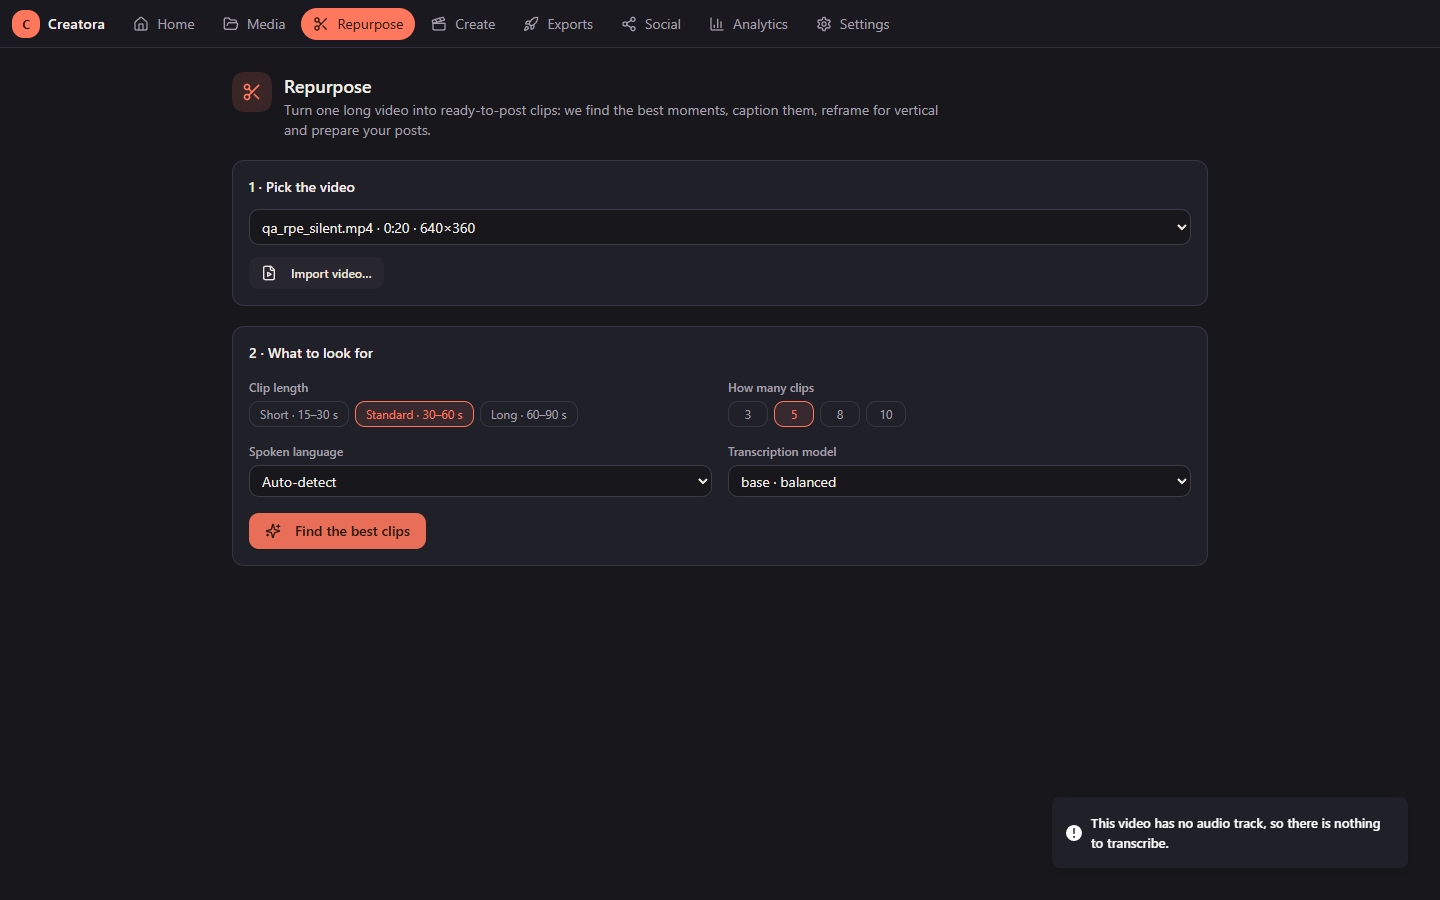
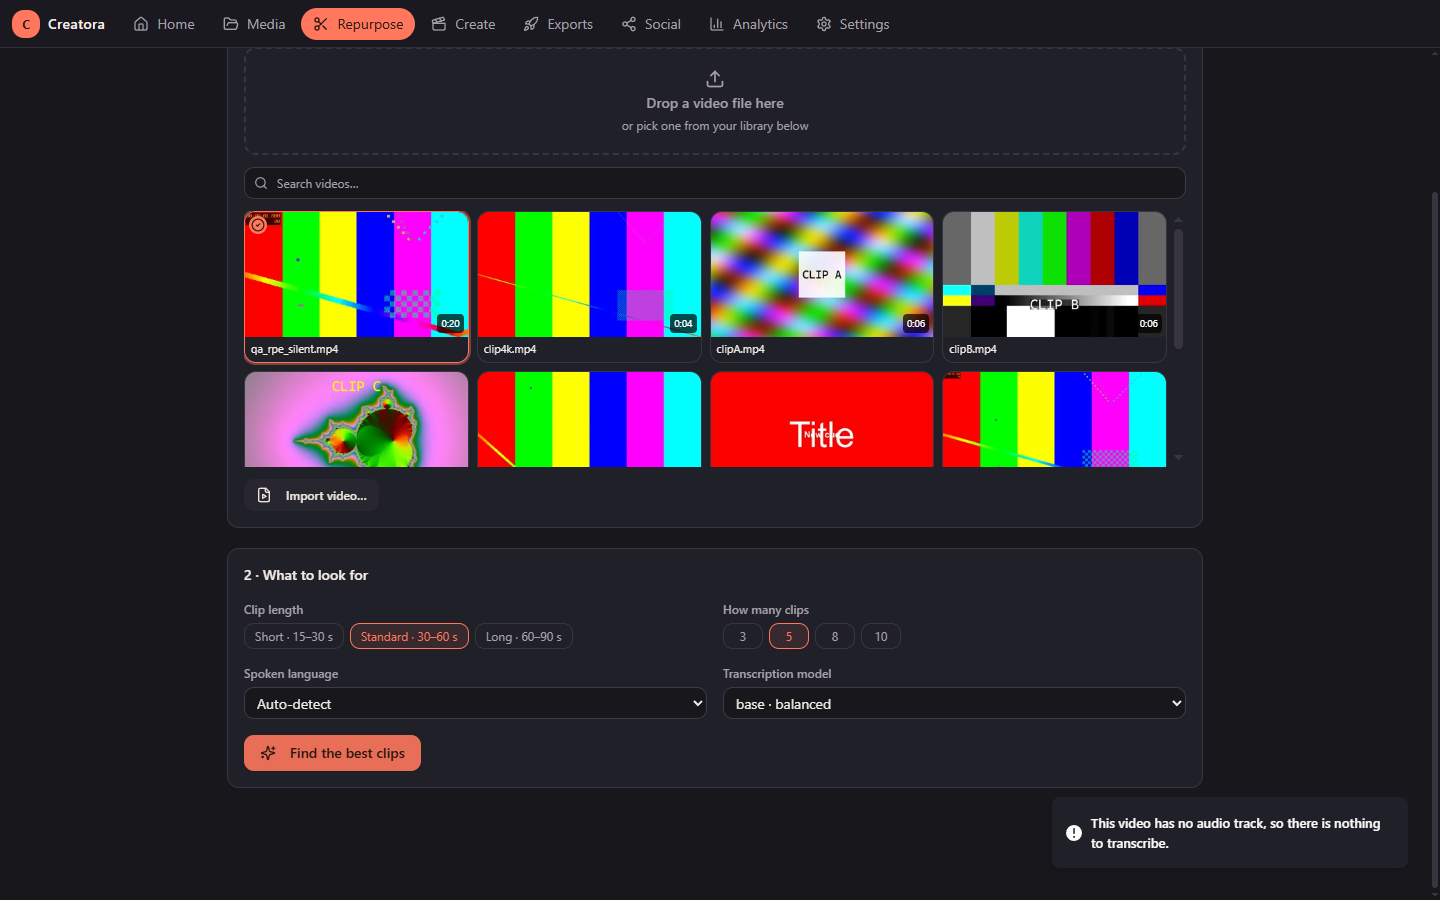
feat(repurpose): library grid + drag & drop instead of the video dropdown
- Source step now shows the media library as a thumbnail grid (searchable once
  there are more than 6 videos): click a tile to pick it, or drag a tile onto
  the drop zone. Tiles use the same application/x-creatora-asset payload as
  MediaBin, so they can also be dragged onto the editor timeline.
- Drop zone accepts OS file drops through the existing postMessageWithAdditionalObjects
  bridge (external_drop.rs) and import_paths filters to video extensions and
  selects the first import. Missing assets render disabled with a warning.
- QA scripts updated to click the tile; main QA also drags a tile to the zone.

Generated with [Devin](https://devin.ai)

diff --git a/src/modules/repurpose/RepurposePage.tsx b/src/modules/repurpose/RepurposePage.tsx
@@ -3,17 +3,23 @@ import { useNavigate } from "react-router-dom";
 import { useQuery, useQueryClient } from "@tanstack/react-query";
 import { useTranslation } from "react-i18next";
 import { convertFileSrc } from "@tauri-apps/api/core";
+import { getCurrentWindow } from "@tauri-apps/api/window";
+import { listen } from "@tauri-apps/api/event";
 import { open as openDialog } from "@tauri-apps/plugin-dialog";
 import { toast } from "sonner";
 import {
+  AlertTriangle,
   CheckCircle2,
   Download,
+  Film,
   FileVideo,
   Loader2,
   Minus,
   Plus,
   Scissors,
+  Search,
   Sparkles,
+  Upload,
   XCircle,
 } from "lucide-react";
 import { api } from "@/lib/ipc";
@@ -35,7 +41,9 @@ import {
   type MotionSample,
 } from "@/lib/repurpose";
 import { useOpenInEditor } from "@/lib/open-in-editor";
+import { setDragPayload } from "@/lib/drag-payload";
 import { Button } from "@/components/ui/button";
+import { Input } from "@/components/ui/input";
 import { EmptyState } from "@/components/EmptyState";
 import { PlatformIcon } from "@/modules/social/PlatformIcon";
 import { cn } from "@/lib/utils";
@@ -147,6 +155,8 @@ export function RepurposePage() {
   });
 
   const [assetId, setAssetId] = useState("");
+  const [libQuery, setLibQuery] = useState("");
+  const [dragOver, setDragOver] = useState(false);
   const [lengthId, setLengthId] = useState<(typeof LENGTH_PRESETS)[number]["id"]>("standard");
   const [count, setCount] = useState(5);
   const [language, setLanguage] = useState("auto");
@@ -169,6 +179,10 @@ export function RepurposePage() {
     () => assets?.find((a) => a.id === assetId),
     [assets, assetId],
   );
+  const usableAssets = useMemo(() => {
+    const q = libQuery.trim().toLowerCase();
+    return (assets ?? []).filter((a) => !q || a.name.toLowerCase().includes(q));
+  }, [assets, libQuery]);
   const presentModels = useMemo(() => (models ?? []).filter((m) => m.present), [models]);
   const model = modelName || presentModels.find((m) => m.name === PREFERRED_MODEL)?.name || presentModels[0]?.name || "";
 
@@ -180,24 +194,88 @@ export function RepurposePage() {
     [jobId],
   );
 
-  const importVideo = async () => {
-    const f = await openDialog({
-      title: t("rp.importVideo"),
-      filters: [{ name: "Video", extensions: ["mp4", "mov", "mkv", "webm", "avi", "m4v"] }],
-    });
-    if (!f || Array.isArray(f)) return;
+  const VIDEO_EXT = new Set(["mp4", "mov", "mkv", "webm", "avi", "m4v"]);
+
+  const importPaths = async (paths: string[]) => {
+    const vids = paths.filter((p) => VIDEO_EXT.has(p.split(".").pop()?.toLowerCase() ?? ""));
+    if (vids.length === 0) return;
     setBusy("model");
     try {
-      const id = await api.importMedia([f]);
+      const id = await api.importMedia(vids);
       const fin = await awaitJob<{ imported?: { id: string }[] }>(id);
       const first = fin.result?.imported?.[0];
       await qc.invalidateQueries({ queryKey: ["repurpose-assets"] });
-      if (first) setAssetId(first.id);
+      if (first) {
+        setAssetId(first.id);
+        reset();
+      }
     } catch (e) {
       reportError(e);
     } finally {
       setBusy(null);
     }
+  };
+
+  const importVideo = async () => {
+    const f = await openDialog({
+      title: t("rp.importVideo"),
+      filters: [{ name: "Video", extensions: [...VIDEO_EXT] }],
+    });
+    if (!f || Array.isArray(f)) return;
+    void importPaths([f]);
+  };
+
+  // OS file drops arrive as DOM drops whose File objects carry no path
+  // (Tauri's native drop handler is disabled for in-app HTML5 DnD). The page
+  // forwards the File objects to the host; Rust answers with real paths on
+  // this channel. Same bridge as LibraryPage — see external_drop.rs.
+  useEffect(() => {
+    const unlistenTauri = getCurrentWindow().onDragDropEvent((e) => {
+      if (e.payload.type === "drop") {
+        setDragOver(false);
+        void importPaths(e.payload.paths);
+      }
+    });
+    const unlistenDrop = listen<string[]>("creatora://external-file-drop", (e) => {
+      void importPaths(e.payload);
+    });
+    return () => {
+      void unlistenTauri.then((f) => f());
+      void unlistenDrop.then((f) => f());
+    };
+    // eslint-disable-next-line react-hooks/exhaustive-deps
+  }, []);
+
+  const acceptsDrag = (e: React.DragEvent) =>
+    e.dataTransfer.types.includes("Files") ||
+    e.dataTransfer.types.includes("application/x-creatora-asset");
+
+  const onSourceDragOver = (e: React.DragEvent) => {
+    if (!acceptsDrag(e)) return;
+    e.preventDefault();
+    e.dataTransfer.dropEffect = "copy";
+    setDragOver(true);
+  };
+  const onSourceDragLeave = (e: React.DragEvent) => {
+    if (e.currentTarget.contains(e.relatedTarget as Node)) return;
+    setDragOver(false);
+  };
+  const onSourceDrop = (e: React.DragEvent) => {
+    if (!acceptsDrag(e)) return;
+    e.preventDefault();
+    setDragOver(false);
+    const assetDrag = e.dataTransfer.getData("application/x-creatora-asset");
+    if (assetDrag && (assets ?? []).some((a) => a.id === assetDrag)) {
+      setAssetId(assetDrag);
+      reset();
+      return;
+    }
+    const files = e.dataTransfer.files;
+    if (files.length === 0) return;
+    const wv = (window as unknown as {
+      chrome?: { webview?: { postMessageWithAdditionalObjects?: (m: string, o: ArrayLike<object>) => void } };
+    }).chrome?.webview;
+    wv?.postMessageWithAdditionalObjects?.("__CREATORA_EXT_DROP__", files);
   };
 
   const downloadModel = async () => {
@@ -497,28 +575,110 @@ export function RepurposePage() {
       {/* 1 · source */}
       <section className="space-y-3 rounded-xl border border-border bg-card p-4">
         <h2 className="text-sm font-semibold">{t("rp.stepSource")}</h2>
+        <div
+          onDragOver={onSourceDragOver}
+          onDragLeave={onSourceDragLeave}
+          onDrop={onSourceDrop}
+          aria-label={t("rp.dropVideo")}
+          className={cn(
+            "flex flex-col items-center justify-center gap-1 rounded-lg border-2 border-dashed px-4 py-5 text-center transition-colors",
+            dragOver
+              ? "border-primary bg-primary/10 text-primary"
+              : "border-border text-muted-foreground",
+          )}
+        >
+          <Upload className="size-5" />
+          <p className="text-sm font-medium">{t("rp.dropVideo")}</p>
+          <p className="text-xs">{t("rp.orPickLibrary")}</p>
+        </div>
         {assets && assets.length === 0 ? (
           <p className="text-sm text-muted-foreground">{t("rp.noVideos")}</p>
         ) : (
-          <select
-            value={assetId}
-            onChange={(e) => {
-              setAssetId(e.target.value);
-              reset();
-            }}
-            disabled={busy !== null}
-            aria-label={t("rp.pickVideo")}
-            className="h-9 w-full rounded-md border border-input bg-background px-2 text-sm"
-          >
-            <option value="">{t("rp.pickVideo")}</option>
-            {(assets ?? []).map((a) => (
-              <option key={a.id} value={a.id}>
-                {a.name}
-                {a.durationMs ? ` · ${fmtTime(a.durationMs)}` : ""}
-                {a.width && a.height ? ` · ${a.width}×${a.height}` : ""}
-              </option>
-            ))}
-          </select>
+          <>
+            {(assets ?? []).length > 6 && (
+              <div className="relative">
+                <Search className="pointer-events-none absolute left-2.5 top-1/2 size-3.5 -translate-y-1/2 text-muted-foreground" />
+                <Input
+                  value={libQuery}
+                  onChange={(e) => setLibQuery(e.target.value)}
+                  placeholder={t("rp.searchVideos")}
+                  className="h-8 pl-8 text-xs"
+                />
+              </div>
+            )}
+            <div className="grid max-h-64 grid-cols-2 gap-2 overflow-y-auto pr-1 sm:grid-cols-3 md:grid-cols-4">
+              {usableAssets.map((a) => {
+                const sel = a.id === assetId;
+                const missing = a.status === "missing";
+                return (
+                  <button
+                    key={a.id}
+                    type="button"
+                    data-rp-asset={a.id}
+                    aria-pressed={sel}
+                    disabled={busy !== null || missing}
+                    draggable={!missing}
+                    onClick={() => {
+                      setAssetId(a.id);
+                      reset();
+                    }}
+                    onDragStart={(e) => {
+                      e.dataTransfer.setData("application/x-creatora-asset", a.id);
+                      e.dataTransfer.setData("application/x-creatora-path", a.filePath);
+                      e.dataTransfer.setData("application/x-creatora-duration", String(a.durationMs ?? 3000));
+                      e.dataTransfer.effectAllowed = "copy";
+                      setDragPayload({
+                        assetId: a.id,
+                        filePath: a.filePath,
+                        durationMs: a.durationMs ?? 3000,
+                        kind: a.kind,
+                      });
+                    }}
+                    onDragEnd={() => setDragPayload(null)}
+                    className={cn(
+                      "group relative cursor-grab overflow-hidden rounded-lg border text-left transition-colors",
+                      sel
+                        ? "border-primary ring-2 ring-primary/40"
+                        : "border-border hover:border-primary/50",
+                      missing && "cursor-not-allowed opacity-50",
+                    )}
+                  >
+                    <div className="relative aspect-video w-full bg-secondary">
+                      {a.thumbnailPath ? (
+                        <img
+                          src={convertFileSrc(a.thumbnailPath)}
+                          alt=""
+                          draggable={false}
+                          className="absolute inset-0 size-full object-cover"
+                          onError={(e) => { (e.target as HTMLImageElement).style.display = "none"; }}
+                        />
+                      ) : (
+                        <div className="absolute inset-0 flex items-center justify-center">
+                          <Film className="size-6 text-muted-foreground" />
+                        </div>
+                      )}
+                      {a.durationMs != null && (
+                        <span className="absolute bottom-1 right-1 rounded bg-black/70 px-1 py-0.5 text-[10px] text-white">
+                          {fmtTime(a.durationMs)}
+                        </span>
+                      )}
+                      {sel && (
+                        <span className="absolute left-1 top-1 rounded-full bg-primary p-0.5 text-primary-foreground">
+                          <CheckCircle2 className="size-3.5" />
+                        </span>
+                      )}
+                      {missing && (
+                        <span className="absolute left-1 top-1 rounded bg-warning/90 p-0.5 text-warning-foreground">
+                          <AlertTriangle className="size-3.5" />
+                        </span>
+                      )}
+                    </div>
+                    <div className="truncate px-1.5 py-1 text-[11px]">{a.name}</div>
+                  </button>
+                );
+              })}
+            </div>
+          </>
         )}
         <Button size="sm" variant="secondary" disabled={busy !== null} onClick={() => void importVideo()}>
           <FileVideo className="mr-1.5 size-3.5" /> {t("rp.importVideo")}

diff --git a/src/i18n/locales/es.ts b/src/i18n/locales/es.ts
@@ -580,6 +580,9 @@ export const es: typeof en = {
     stepOptions: "2 · Qué buscar",
     stepTargets: "3 · Dónde se publicará",
     importVideo: "Importar video…",
+    dropVideo: "Suelta un video aquí",
+    orPickLibrary: "o elige uno de tu biblioteca",
+    searchVideos: "Buscar videos…",
     pickVideo: "Elige un video",
     noVideos: "Aún no hay videos en tu biblioteca — importa uno para empezar.",
     clipLength: "Duración del clip",

diff --git a/src/i18n/locales/en.ts b/src/i18n/locales/en.ts
@@ -577,6 +577,9 @@ export const en = {
     stepOptions: "2 · What to look for",
     stepTargets: "3 · Where will it be posted",
     importVideo: "Import video…",
+    dropVideo: "Drop a video file here",
+    orPickLibrary: "or pick one from your library below",
+    searchVideos: "Search videos…",
     pickVideo: "Choose a video",
     noVideos: "No videos in your library yet — import one to start.",
     clipLength: "Clip length",

diff --git a/qa/qa_repurpose.py b/qa/qa_repurpose.py
@@ -95,9 +95,25 @@ try:
     check("top menu has an active 'Repurpose' entry", nav_ok)
 
     # ---- configure ----
-    js(c, f"""(() => {{ const s = document.querySelector('select[aria-label="Choose a video"]');
-      Object.getOwnPropertyDescriptor(HTMLSelectElement.prototype, 'value').set.call(s, {json.dumps(asset_id)});
-      s.dispatchEvent(new Event('change', {{bubbles: true}})); }})()""", False)
+    sel = f"button[data-rp-asset=\"{asset_id}\"]"
+    check("library tile is rendered", wait_for(c, f"!!document.querySelector('{sel}')", 20))
+    click(c, f"document.querySelector('{sel}')")
+    check("tile click selects the video",
+          wait_for(c, f"document.querySelector('{sel}')?.getAttribute('aria-pressed') === 'true'", 10))
+    # drag a library tile onto the drop zone (internal DnD path)
+    dropped = js(c, f"""(() => {{
+      const tile = document.querySelector('{sel}');
+      const zone = document.querySelector('[aria-label="Drop a video file here"]');
+      if (!tile || !zone) return "missing";
+      const dt = new DataTransfer();
+      tile.dispatchEvent(new DragEvent('dragstart', {{bubbles: true, dataTransfer: dt}}));
+      zone.dispatchEvent(new DragEvent('dragover', {{bubbles: true, dataTransfer: dt}}));
+      zone.dispatchEvent(new DragEvent('drop', {{bubbles: true, dataTransfer: dt}}));
+      tile.dispatchEvent(new DragEvent('dragend', {{bubbles: true, dataTransfer: dt}}));
+      return "ok";
+    }})()""", False)
+    check("library tile drag+drop onto the zone keeps the selection",
+          dropped == "ok" and js(c, f"document.querySelector('{sel}')?.getAttribute('aria-pressed') === 'true'", False))
     time.sleep(0.4)
     click(c, "[...document.querySelectorAll('button[aria-pressed]')].find(e => e.textContent.includes('Short'))")
     click(c, "[...document.querySelectorAll('button[aria-pressed]')].find(e => e.textContent.trim() === '3')")

diff --git a/qa/qa_repurpose_gone.py b/qa/qa_repurpose_gone.py
@@ -54,9 +54,7 @@ try:
     c.eval("location.hash='#/repurpose'; location.reload()")
     time.sleep(4)
     c = connect()
-    js(c, f"""(() => {{ const s = document.querySelector('select[aria-label="Choose a video"]');
-      Object.getOwnPropertyDescriptor(HTMLSelectElement.prototype,'value').set.call(s, {json.dumps(aid)});
-      s.dispatchEvent(new Event('change',{{bubbles:true}})); }})()""", False)
+    click(f"document.querySelector('button[data-rp-asset=\"{aid}\"]')")
     time.sleep(0.4)
     click("[...document.querySelectorAll('button[aria-pressed]')].find(e=>e.textContent.includes('Short'))")
     click(btn("Find the best clips"), 1.0)

diff --git a/qa/qa_repurpose_edge.py b/qa/qa_repurpose_edge.py
@@ -111,9 +111,7 @@ def open_wizard():
 
 
 def pick(asset_id):
-    js(c, f"""(() => {{ const s = document.querySelector('select[aria-label="Choose a video"]');
-      Object.getOwnPropertyDescriptor(HTMLSelectElement.prototype, 'value').set.call(s, {json.dumps(asset_id)});
-      s.dispatchEvent(new Event('change', {{bubbles: true}})); }})()""", False)
+    click(c, f"document.querySelector('button[data-rp-asset=\"{asset_id}\"]')")
     time.sleep(0.4)
 
 
